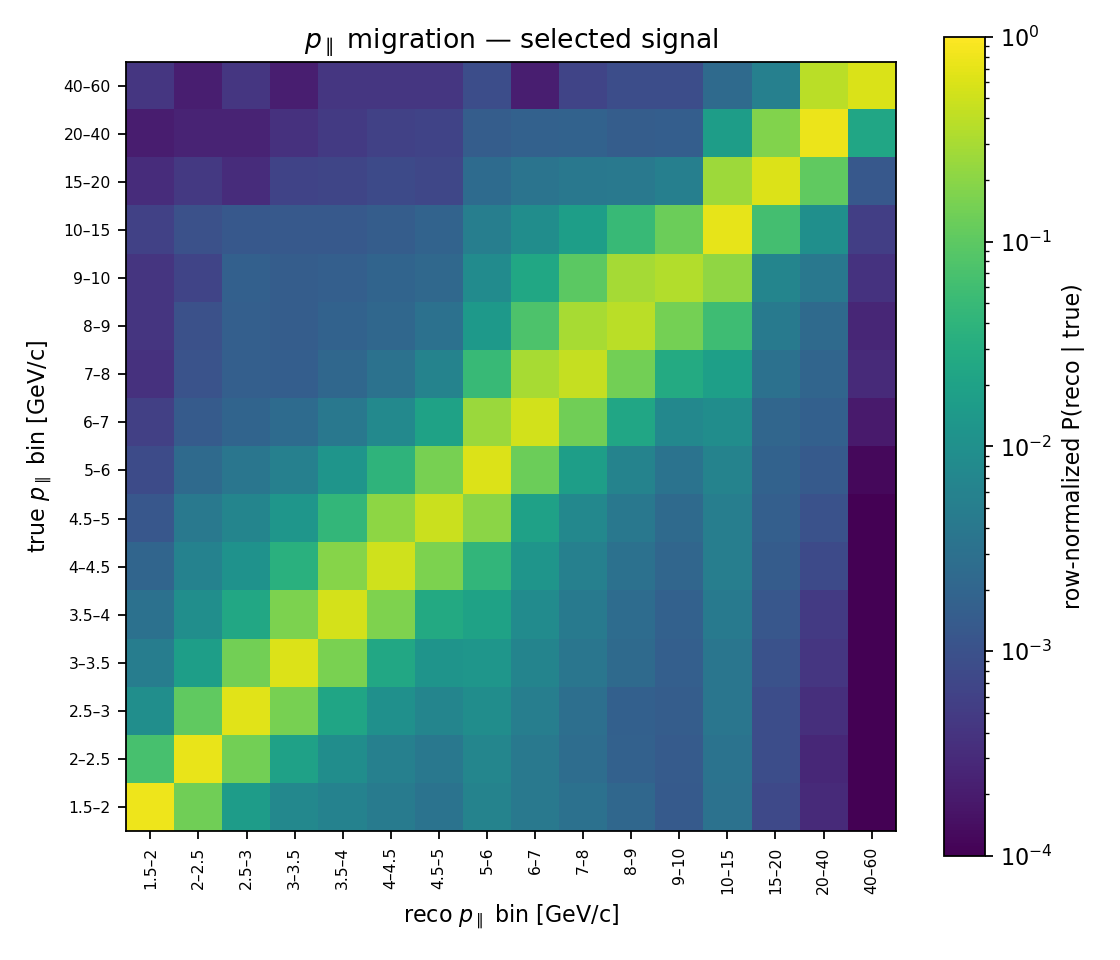
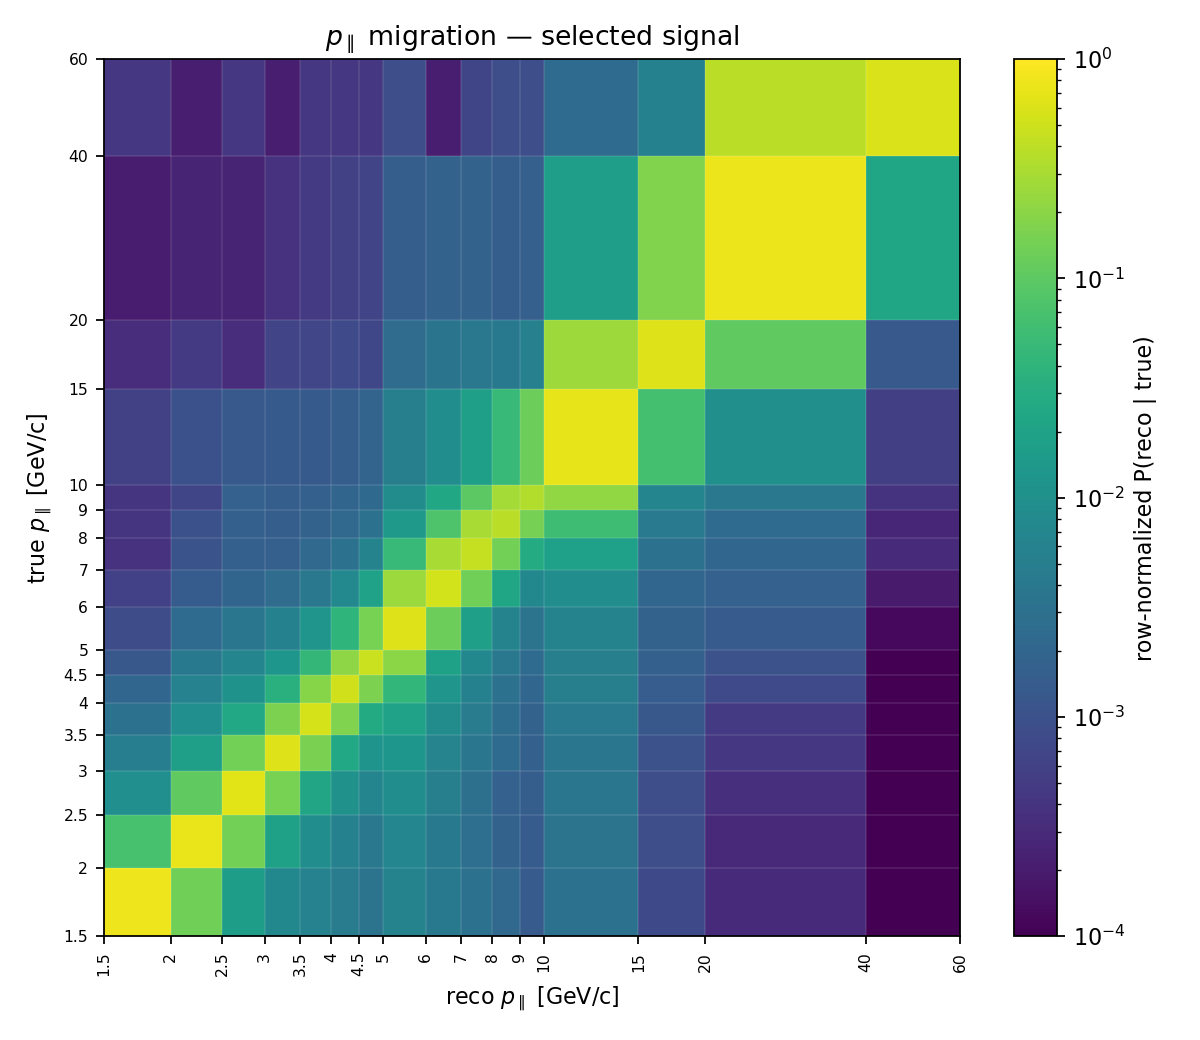
1D migrations on physical axes (real bin widths): pcolormesh with edges, pT linear / p|| log-log

diff --git a/plot_1d_from_hists.py b/plot_1d_from_hists.py
@@ -60,21 +60,27 @@ def overlay_1d(edges, data, mc_scaled, xlabel, logx, path, title):
     return ratio
 
 
-def plot_migration_1d(m, edges, axis_label, path, title):
+def plot_migration_1d(m, edges, axis_label, path, title, logscale=False):
+    """Migration on PHYSICAL axes: cell sizes show the real bin widths."""
     rows = m.sum(axis=1, keepdims=True)
     norm = np.divide(m, rows, out=np.zeros_like(m), where=rows > 0)
-    n = m.shape[0]
-    fig, ax = plt.subplots(figsize=(7, 6))
-    pcm = ax.imshow(np.ma.masked_equal(norm, 0.0), origin="lower",
-                    norm=LogNorm(vmin=1e-4, vmax=1.0), cmap="viridis",
-                    extent=(-0.5, n - 0.5, -0.5, n - 0.5))
-    ax.set_xticks(range(n))
-    ax.set_yticks(range(n))
-    labels = [f"{lo:g}–{hi:g}" for lo, hi in zip(edges[:-1], edges[1:])]
-    ax.set_xticklabels(labels, rotation=90, fontsize=7)
-    ax.set_yticklabels(labels, fontsize=7)
-    ax.set_xlabel(f"reco {axis_label} bin [GeV/c]")
-    ax.set_ylabel(f"true {axis_label} bin [GeV/c]")
+    fig, ax = plt.subplots(figsize=(7.5, 6.5))
+    # norm[true, reco]: rows are y (true), columns x (reco)
+    pcm = ax.pcolormesh(edges, edges, np.ma.masked_equal(norm, 0.0),
+                        norm=LogNorm(vmin=1e-4, vmax=1.0), cmap="viridis")
+    if logscale:
+        ax.set_xscale("log")
+        ax.set_yscale("log")
+    ax.set_xticks(edges)
+    ax.set_yticks(edges)
+    ax.set_xticklabels([f"{e:g}" for e in edges], rotation=90, fontsize=7)
+    ax.set_yticklabels([f"{e:g}" for e in edges], fontsize=7)
+    ax.minorticks_off()
+    for e in edges:
+        ax.axhline(e, color="w", lw=0.2, alpha=0.4)
+        ax.axvline(e, color="w", lw=0.2, alpha=0.4)
+    ax.set_xlabel(f"reco {axis_label} [GeV/c]")
+    ax.set_ylabel(f"true {axis_label} [GeV/c]")
     ax.set_title(title)
     fig.colorbar(pcm, ax=ax, label="row-normalized P(reco | true)")
     fig.tight_layout()
@@ -116,7 +122,8 @@ def main():
                           r"$p_T$ migration — selected signal")
         plot_migration_1d(mig_pl, binning.PL_EDGES_GEV, r"$p_\parallel$",
                           outdir / "migration_pl.png",
-                          r"$p_\parallel$ migration — selected signal")
+                          r"$p_\parallel$ migration — selected signal",
+                          logscale=True)
 
         diag_pt = np.diag(mig_pt / np.maximum(mig_pt.sum(axis=1, keepdims=True), 1))
         diag_pl = np.diag(mig_pl / np.maximum(mig_pl.sum(axis=1, keepdims=True), 1))

diff --git a/docs/results/2026-06-12_playlist1A_2d_migration.md b/docs/results/2026-06-12_playlist1A_2d_migration.md
@@ -98,8 +98,9 @@ show precisely the structure those weights correct:
 ### 1D migration matrices (selected signal, row-normalized)
 
 Projections of the 224×224 migration (reshape to (14,16,14,16), sum the other
-axis). Both are strongly diagonal with mostly one-bin spill; p_∥ shows the
-expected mild low-side reconstruction tail at high p_∥.
+axis), drawn on **physical axes** so cell sizes show the real bin widths
+(p_T linear; p_∥ log–log). Both are strongly diagonal with mostly one-bin
+spill; p_∥ shows the expected mild low-side reconstruction tail at high p_∥.
 
 ![pT migration](img/playlist1A_2d/migration_pt.png)
 